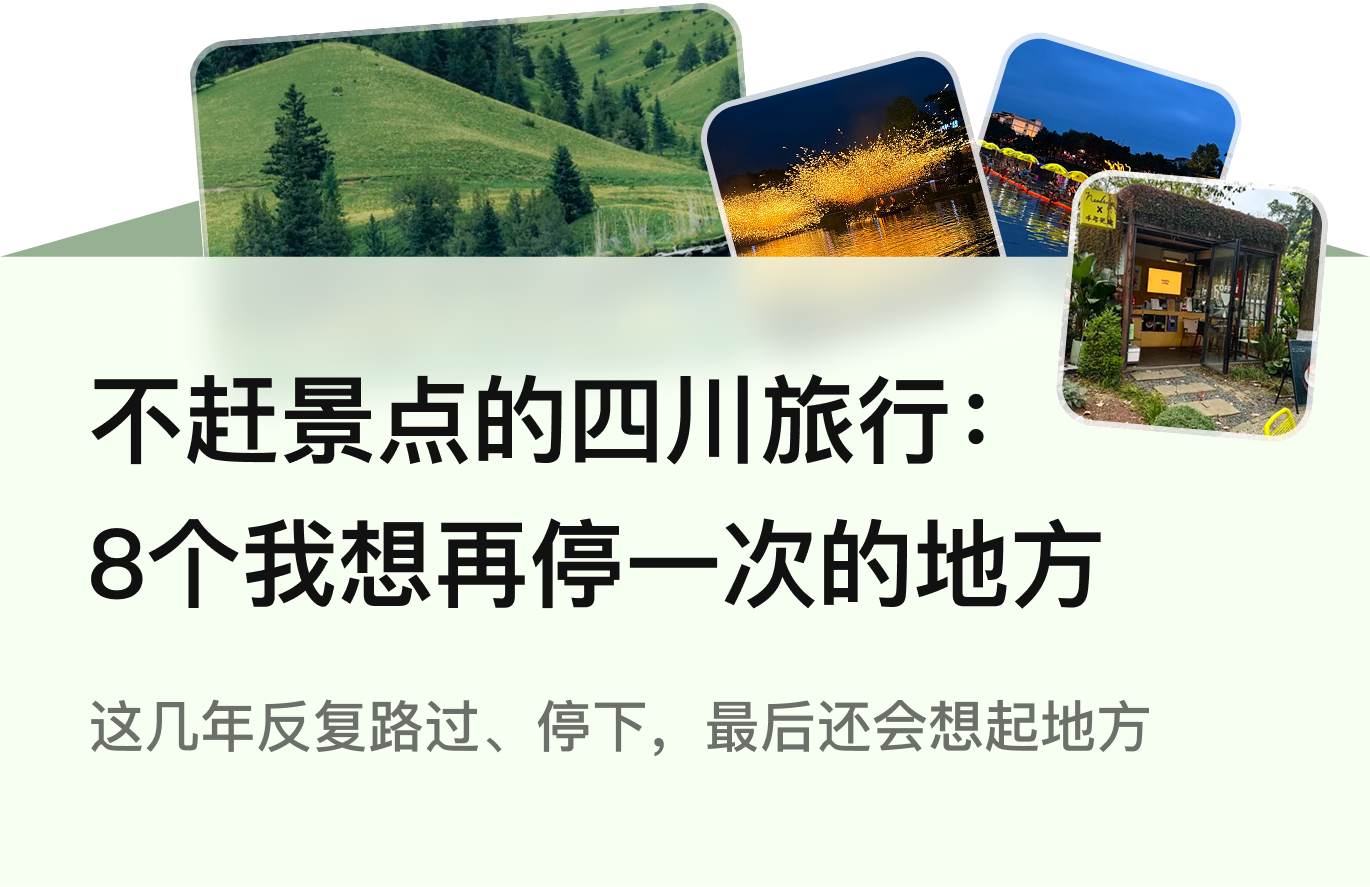
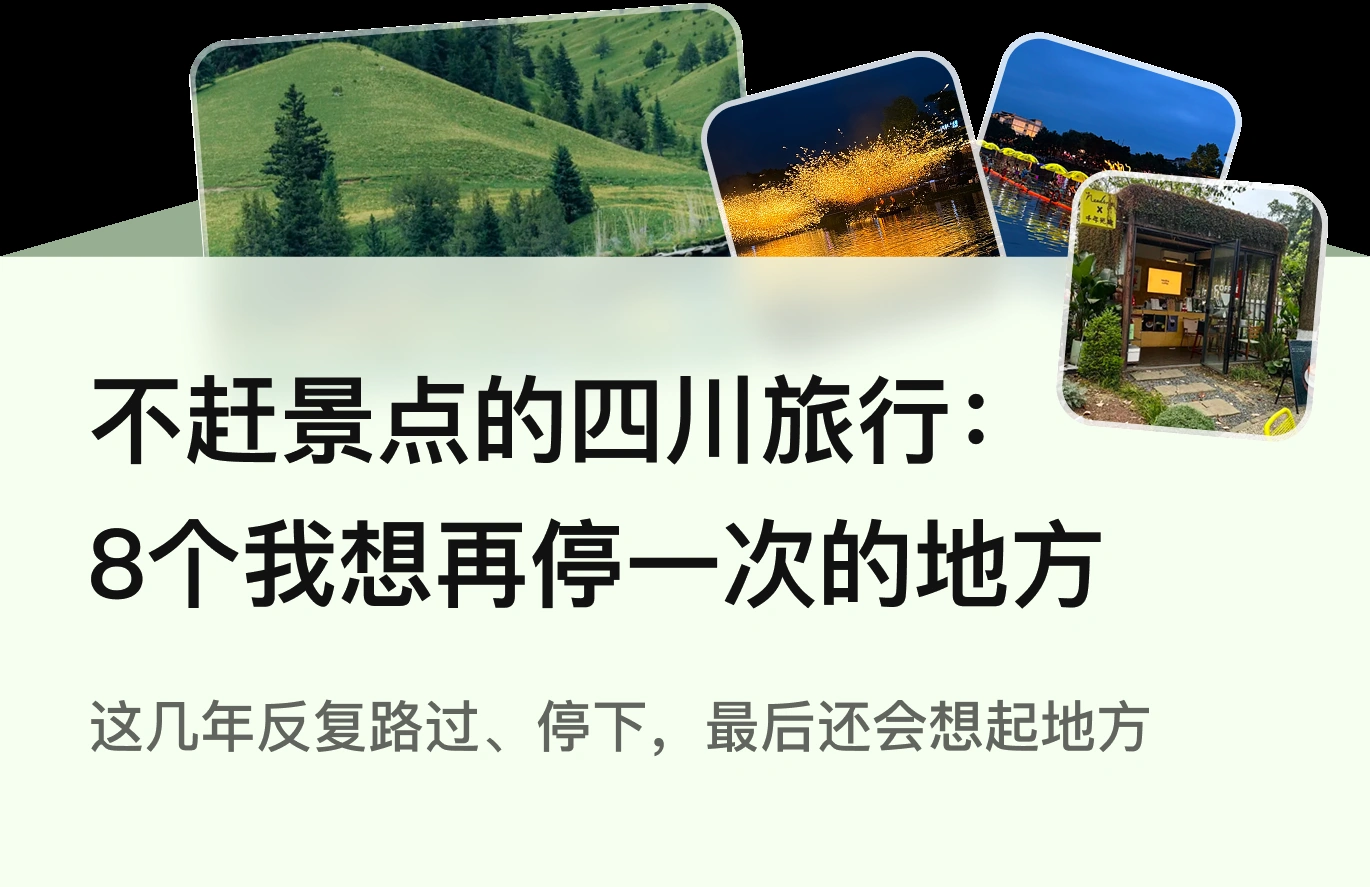
Optimize album loading and detail rendering

Changed region(s): [[0.0, 0.0, 1.0, 0.3044], [0.7358, 0.2435, 0.7971, 0.274], [0.7664, 0.1826, 0.7971, 0.2131]]

diff --git a/index.html b/index.html
@@ -1485,7 +1485,13 @@
       display: block;
       width: 100%;
       height: auto;
-      transition: filter 180ms ease;
+      opacity: 0;
+      transform: translateZ(0);
+      transition: opacity 220ms ease, filter 180ms ease;
+    }
+
+    .album-card > img.is-loaded {
+      opacity: 1;
     }
 
     .album-card:hover > img,
@@ -1539,8 +1545,8 @@
       display: grid;
       place-items: center;
       background: rgba(81, 74, 71, 0.6);
-      backdrop-filter: blur(45px);
-      -webkit-backdrop-filter: blur(45px);
+      backdrop-filter: blur(24px);
+      -webkit-backdrop-filter: blur(24px);
       animation: modalFadeIn 240ms ease-out both;
     }
 
@@ -1557,6 +1563,7 @@
       border-radius: 28px;
       background: #ffffff;
       box-shadow: 0 24px 80px rgba(0, 0, 0, 0.3);
+      contain: layout paint;
       animation: detailRiseIn 320ms cubic-bezier(0.2, 0.82, 0.25, 1) both;
     }
 
@@ -1579,6 +1586,12 @@
       width: 100%;
       height: auto;
       margin-top: calc(-1 * var(--detail-body-trim, 0%));
+      opacity: 0;
+      transition: opacity 180ms ease;
+    }
+
+    .album-detail-page.is-ready {
+      opacity: 1;
     }
 
     .album-detail-hero {
@@ -2073,9 +2086,9 @@
     <section class="screen" aria-label="画面 4">
       <div class="stage">
         <h1 class="albums-heading">翻开特辑，走进一个人的生活</h1>
-        <button class="album-card album-card-1" type="button" aria-label="查看大学路生活特辑详情" data-hero="assets/album-detail/detail-2-cover-v2.webp" data-hero-height="640" data-detail="assets/album-detail/detail-2-content-v2.webp" data-header="assets/album-detail/detail-2-header-v2.webp" data-body-trim="0%" data-end-space="24px" data-detail-alt="大学路生活特辑详情"><img data-src="assets/albums/album-1.webp" loading="lazy" decoding="async" alt="大学毕业前，和室友吃完的大学路"></button>
-        <button class="album-card album-card-2" type="button" aria-label="查看上海老街生活特辑详情" data-hero="assets/album-detail/detail-1-cover-v2.webp" data-hero-height="640" data-detail="assets/album-detail/detail-1-content-v2.webp" data-header="assets/album-detail/detail-1-scrolled.webp" data-body-trim="0%" data-end-space="24px" data-detail-alt="上海老街生活特辑详情"><img data-src="assets/albums/album-2.webp" loading="lazy" decoding="async" alt="在上海的老街边，还有一些慢下来的手艺"></button>
-        <button class="album-card album-card-3" type="button" aria-label="查看四川旅行生活特辑详情" data-hero="assets/album-detail/detail-3-cover-v2.webp" data-hero-height="640" data-detail="assets/album-detail/detail-3-content-v2.webp" data-header="assets/album-detail/detail-3-header-v2.webp" data-body-trim="0%" data-end-space="24px" data-detail-alt="四川旅行生活特辑详情"><img data-src="assets/albums/album-3.webp" loading="lazy" decoding="async" alt="不赶景点的四川旅行"></button>
+        <button class="album-card album-card-1" type="button" aria-label="查看大学路生活特辑详情" data-hero="assets/album-detail/detail-2-hero-v3.webp" data-hero-height="640" data-detail="assets/album-detail/detail-2-content-v2.webp" data-header="assets/album-detail/detail-2-header-v2.webp" data-body-trim="0%" data-end-space="24px" data-detail-alt="大学路生活特辑详情"><img data-src="assets/albums/album-1.webp?v=20260713-fast" loading="lazy" decoding="async" alt="大学毕业前，和室友吃完的大学路"></button>
+        <button class="album-card album-card-2" type="button" aria-label="查看上海老街生活特辑详情" data-hero="assets/album-detail/detail-1-hero-v3.webp" data-hero-height="640" data-detail="assets/album-detail/detail-1-content-v2.webp" data-header="assets/album-detail/detail-1-scrolled.webp" data-body-trim="0%" data-end-space="24px" data-detail-alt="上海老街生活特辑详情"><img data-src="assets/albums/album-2.webp?v=20260713-fast" loading="lazy" decoding="async" alt="在上海的老街边，还有一些慢下来的手艺"></button>
+        <button class="album-card album-card-3" type="button" aria-label="查看四川旅行生活特辑详情" data-hero="assets/album-detail/detail-3-hero-v3.webp" data-hero-height="640" data-detail="assets/album-detail/detail-3-content-v2.webp" data-header="assets/album-detail/detail-3-header-v2.webp" data-body-trim="0%" data-end-space="24px" data-detail-alt="四川旅行生活特辑详情"><img data-src="assets/albums/album-3.webp?v=20260713-fast" loading="lazy" decoding="async" alt="不赶景点的四川旅行"></button>
         <p class="albums-hint">可点击查看特辑详情</p>
         <p class="albums-credit">大众点评「个人清单」概念提案</p>
       </div>
@@ -2253,9 +2266,11 @@
     let transitionLocked = false;
     let touchStartY = 0;
     let activeAlbumTrigger = null;
+    let albumDetailLoadId = 0;
     let albumDetailsPreloadScheduled = false;
-    const albumPreloadImages = [];
-    const albumPreloadedUrls = new Set();
+    const albumPreloadImages = new Map();
+    const albumPreloadPromises = new Map();
+    const albumFetchPromises = new Map();
     let creationAssetsPreloaded = false;
     let creationFlowStep = "locations";
     let merchantAddLocked = false;
@@ -2303,6 +2318,15 @@
       if (priority !== "auto") image.fetchPriority = priority;
       image.src = image.dataset.src;
       image.removeAttribute("data-src");
+
+      if (image.matches(".album-card > img")) {
+        const reveal = () => image.classList.add("is-loaded");
+        if (typeof image.decode === "function") {
+          image.decode().then(reveal, reveal);
+        } else {
+          image.addEventListener("load", reveal, { once: true });
+        }
+      }
     }
 
     function hydrateImagesStaggered(root, interval = 120, priority = "low") {
@@ -2321,8 +2345,10 @@
       }
 
       if (index === 3) {
-        screen.querySelectorAll(".album-card > img[data-src]").forEach((image, imageIndex) => {
-          window.setTimeout(() => hydrateImage(image, imageIndex === 1 ? "high" : "low"), imageIndex * 120);
+        const albumImages = Array.from(screen.querySelectorAll(".album-card > img[data-src]"));
+        [1, 0, 2].forEach((imageIndex, loadIndex) => {
+          const image = albumImages[imageIndex];
+          window.setTimeout(() => hydrateImage(image, loadIndex === 0 ? "high" : "low"), loadIndex * 140);
         });
         return;
       }
@@ -2338,20 +2364,46 @@
       }
     }
 
-    function preloadAlbumImage(url, priority = "low") {
-      if (!url || albumPreloadedUrls.has(url)) return;
-      albumPreloadedUrls.add(url);
-      const image = new Image();
-      image.decoding = "async";
-      image.fetchPriority = priority;
-      image.src = url;
-      albumPreloadImages.push(image);
+    function preloadAlbumImage(url, priority = "low", decode = false) {
+      if (!url) return Promise.resolve(null);
+
+      let image = albumPreloadImages.get(url);
+      if (!image) {
+        image = new Image();
+        image.decoding = "async";
+        image.fetchPriority = priority;
+        albumPreloadImages.set(url, image);
+        albumPreloadPromises.set(url, new Promise((resolve) => {
+          image.addEventListener("load", () => resolve(image), { once: true });
+          image.addEventListener("error", () => resolve(image), { once: true });
+        }));
+        image.src = url;
+      } else if (priority === "high") {
+        image.fetchPriority = "high";
+      }
+
+      const loaded = image.complete ? Promise.resolve(image) : albumPreloadPromises.get(url);
+      if (!decode || typeof image.decode !== "function") return loaded;
+      return loaded.then(() => image.decode().catch(() => undefined)).then(() => image);
+    }
+
+    function fetchAlbumAsset(url) {
+      if (!url) return Promise.resolve();
+      if (!albumFetchPromises.has(url)) {
+        albumFetchPromises.set(url, fetch(url, { cache: "force-cache" })
+          .then((response) => response.ok ? response.arrayBuffer() : undefined)
+          .then(() => undefined)
+          .catch(() => undefined));
+      }
+      return albumFetchPromises.get(url);
     }
 
     function warmAlbumDetail(trigger, priority = "high") {
-      preloadAlbumImage(trigger.dataset.hero, priority);
-      preloadAlbumImage(trigger.dataset.header, priority);
-      preloadAlbumImage(trigger.dataset.detail, priority);
+      return Promise.all([
+        preloadAlbumImage(trigger.dataset.hero, priority, true),
+        preloadAlbumImage(trigger.dataset.header, priority, true),
+        preloadAlbumImage(trigger.dataset.detail, priority, true)
+      ]);
     }
 
     function preloadAlbumDetails() {
@@ -2362,14 +2414,21 @@
       albumTriggers.forEach((trigger, index) => {
         window.setTimeout(() => {
           runWhenIdle(() => {
-            preloadAlbumImage(trigger.dataset.hero);
-            preloadAlbumImage(trigger.dataset.header);
-          }, 1800 + index * 400);
-        }, 1200 + index * 450);
+            preloadAlbumImage(trigger.dataset.hero, index === 1 ? "high" : "low", true);
+            preloadAlbumImage(trigger.dataset.header, "low", true);
+          }, 900 + index * 220);
+        }, 320 + index * 180);
+      });
 
+      const centerTrigger = albumTriggers[1];
+      window.setTimeout(() => {
+        runWhenIdle(() => preloadAlbumImage(centerTrigger.dataset.detail, "low", true), 1000);
+      }, 900);
+
+      [albumTriggers[0], albumTriggers[2]].forEach((trigger, index) => {
         window.setTimeout(() => {
-          runWhenIdle(() => preloadAlbumImage(trigger.dataset.detail), 2400);
-        }, 2600 + index * 650);
+          runWhenIdle(() => fetchAlbumAsset(trigger.dataset.detail), 1800);
+        }, 1700 + index * 700);
       });
     }
 
@@ -2613,6 +2672,7 @@
 
       window.setTimeout(() => {
         if (screens[next + 1]) runWhenIdle(() => hydrateScreenImages(next + 1, "low"));
+        if (next === 2) runWhenIdle(preloadAlbumDetails, 1600);
         if (next === 3) preloadAlbumDetails();
         if (next === 5) runWhenIdle(preloadCreationAssets, 1200);
       }, 650);
@@ -2631,14 +2691,16 @@
 
     function openAlbumDetail(trigger) {
       activeAlbumTrigger = trigger;
+      const loadId = ++albumDetailLoadId;
+      const detailUrl = trigger.dataset.detail;
       hydrateImages(albumDetailModal);
       albumDetailHeroImage.fetchPriority = "high";
-      albumDetailPage.fetchPriority = "high";
       albumDetailHeaderImage.fetchPriority = "high";
       albumDetailHeroImage.src = trigger.dataset.hero;
       albumDetailHero.style.setProperty("--detail-hero-height", trigger.dataset.heroHeight);
-      albumDetailPage.src = trigger.dataset.detail;
       albumDetailPage.alt = trigger.dataset.detailAlt;
+      albumDetailPage.classList.remove("is-ready");
+      albumDetailPage.removeAttribute("src");
       albumDetailPage.style.setProperty("--detail-body-trim", trigger.dataset.bodyTrim || "0%");
       albumDetailScroller.style.setProperty("--detail-end-space", trigger.dataset.endSpace || "0px");
       albumDetailHeaderImage.src = trigger.dataset.header;
@@ -2646,9 +2708,28 @@
       albumDetailShell.classList.remove("is-scrolled");
       albumDetailModal.hidden = false;
       albumDetailScroller.focus({ preventScroll: true });
+
+      window.requestAnimationFrame(() => {
+        preloadAlbumImage(detailUrl, "high", true).then(() => {
+          if (loadId !== albumDetailLoadId || activeAlbumTrigger !== trigger) return;
+          albumDetailPage.fetchPriority = "high";
+          albumDetailPage.src = detailUrl;
+          const revealDetail = () => {
+            if (loadId === albumDetailLoadId) albumDetailPage.classList.add("is-ready");
+          };
+          if (typeof albumDetailPage.decode === "function") {
+            albumDetailPage.decode().then(revealDetail, () => {
+              albumDetailPage.addEventListener("load", revealDetail, { once: true });
+            });
+          } else {
+            albumDetailPage.addEventListener("load", revealDetail, { once: true });
+          }
+        });
+      });
     }
 
     function closeAlbumDetail() {
+      albumDetailLoadId += 1;
       albumDetailModal.hidden = true;
       albumDetailShell.classList.remove("is-scrolled");
       activeAlbumTrigger?.focus({ preventScroll: true });